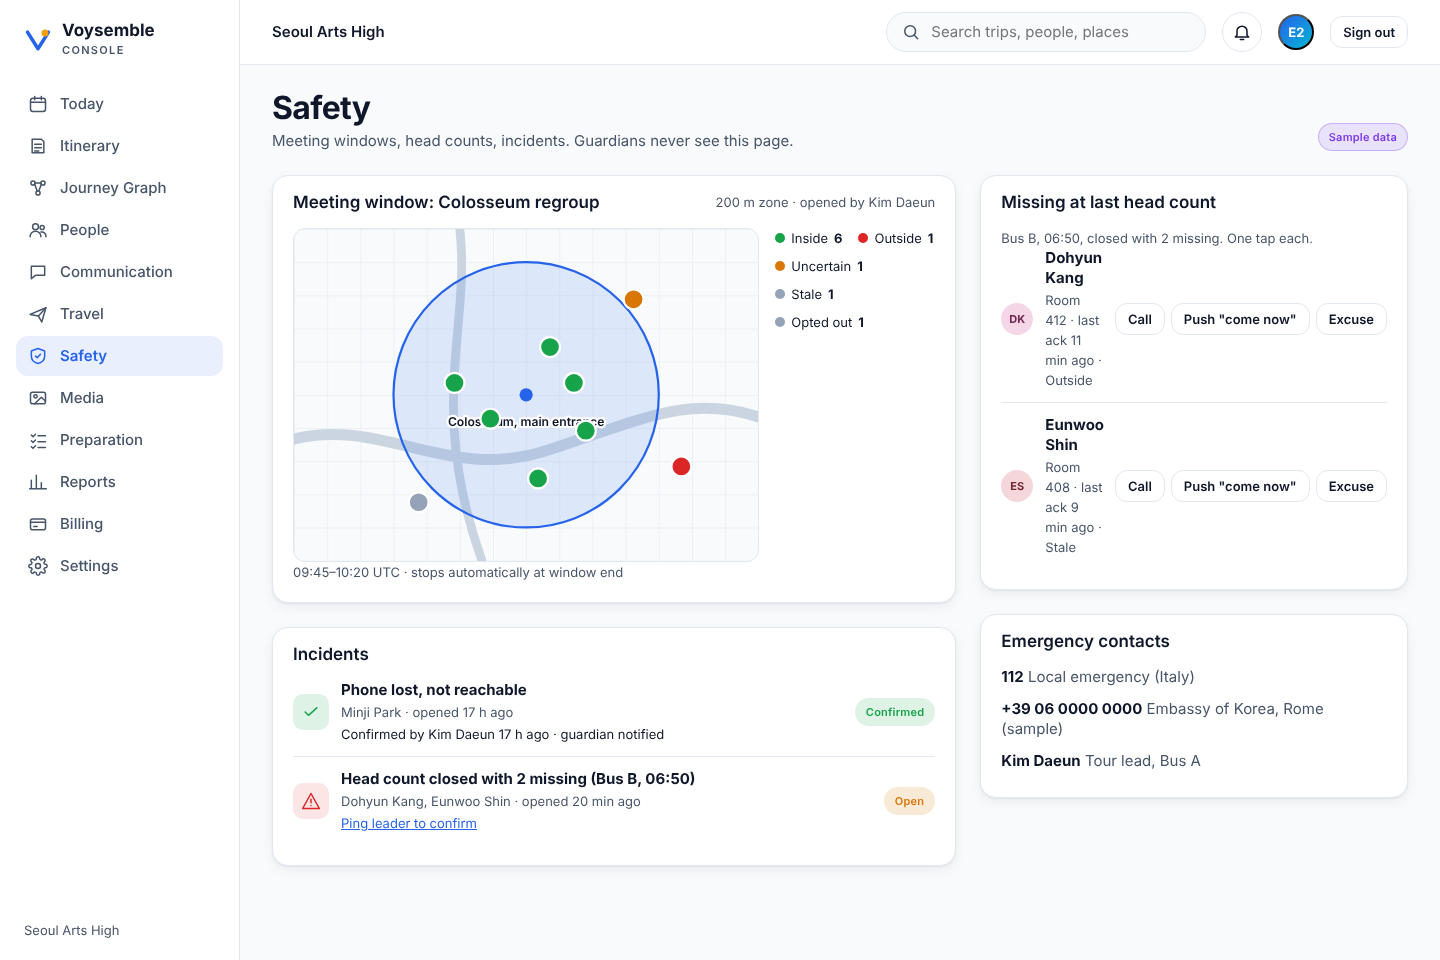
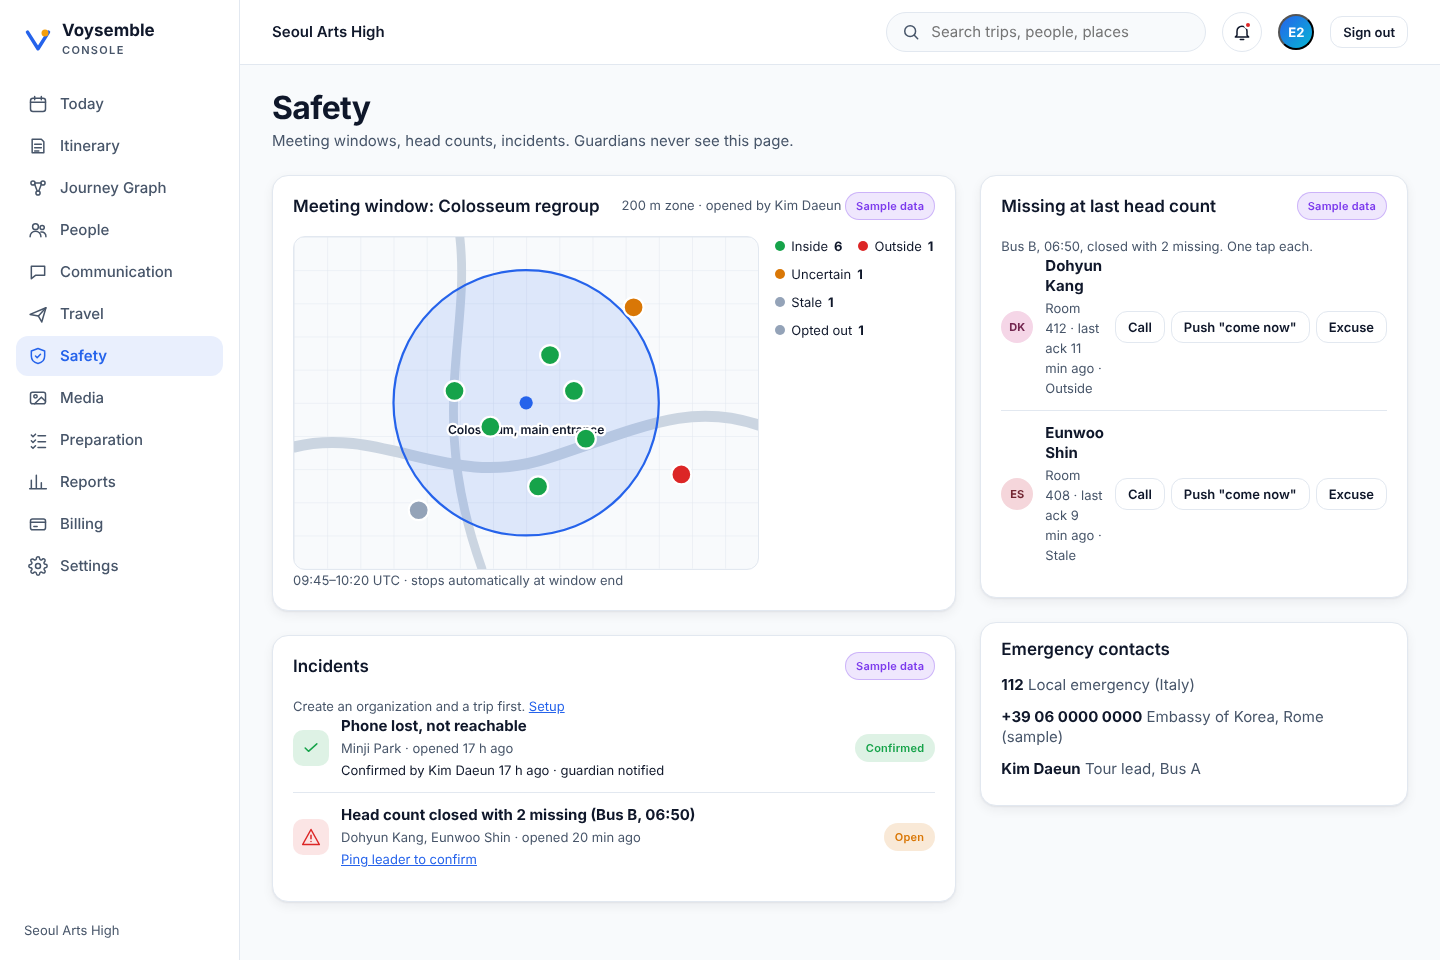
test(web): sections E2E accepts several Sample data chips on a page with live cards
Safety now shows one chip per fixture card next to the live incidents card, so the strict
single-element locator failed on desktop and laptop (CI runs 38113821044, 38113832587).

Claude-Session: https://claude.ai/code/session_01JTJP7DW5D8Y9VJ9CjsPXf9

diff --git a/apps/organizer-web/e2e/sections.spec.ts b/apps/organizer-web/e2e/sections.spec.ts
@@ -72,7 +72,9 @@ for (const s of SECTIONS) {
   test(`section ${s.path} renders sample data`, async ({ page }, info) => {
     await page.goto(s.path);
     await expect(page.getByRole('heading', { level: 1 })).toHaveText(s.nav);
-    await expect(page.getByText('Sample data')).toBeVisible();
+    // At least one chip: a page on fixtures carries one at page level, a page with live content
+    // (Communication, Safety) carries one per fixture card.
+    await expect(page.getByText('Sample data').first()).toBeVisible();
     await expect(page.getByRole('link', { name: s.nav, exact: true })).toHaveAttribute(
       'aria-current',
       'page',

diff --git a/docs/planning/slices.md b/docs/planning/slices.md
@@ -483,6 +483,9 @@ Built:
 Deviations found while building:
 - Playwright's web server serves the built console: a changed page needs `pnpm build` before a local
   E2E run, or the old bundle answers (the config comment says so; it bit once anyway).
+- CI runs 38113821044 and 38113832587 (web red): `sections.spec.ts` asserted one "Sample data" chip per
+  page with a strict locator; Safety now carries one per fixture card (three). The loop asserts the
+  first chip. The earlier local full-suite run reported green, so a local pass is not proof: CI is.
 
 Not done: manual incident creation, leader confirmation from the phone, guardian status message,
 amber dashboard tile on real sessions, person timeline.
